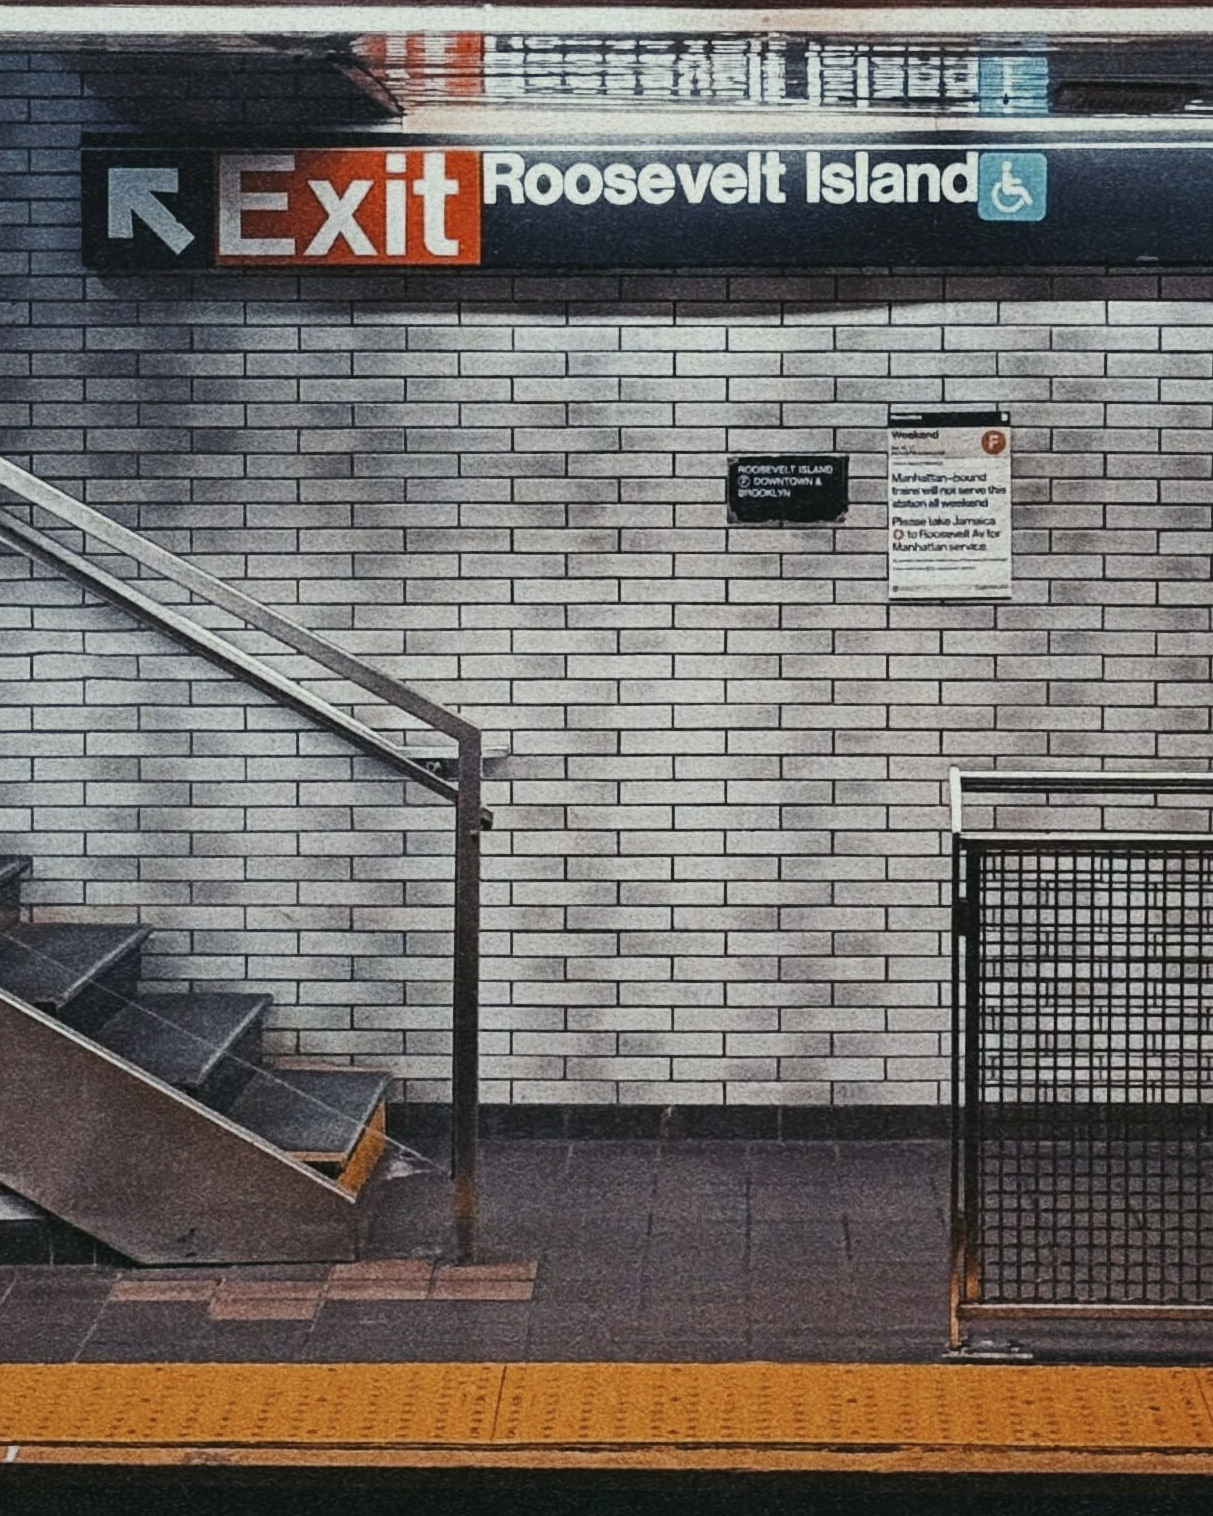
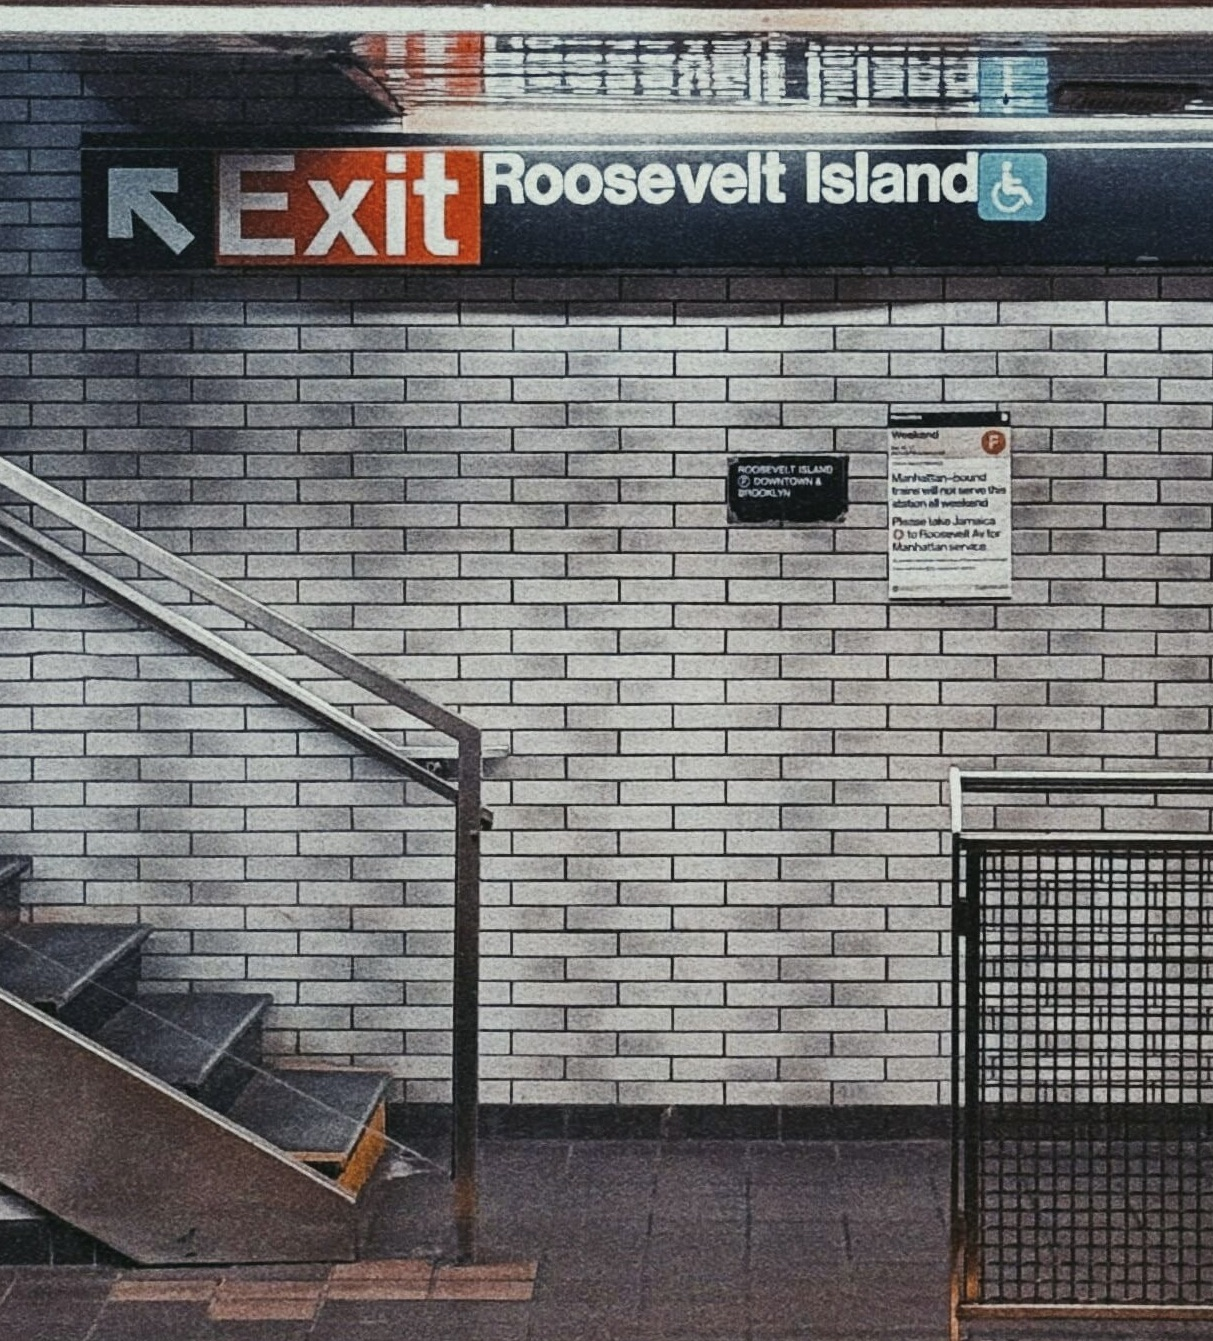
adjusted the phone homepage picture size

diff --git a/assets/css/style.css b/assets/css/style.css
@@ -392,7 +392,7 @@ html[lang="zh-hans"] .lang {
     background-image: url("/assets/image/hero-home-en-mobile.jpg");
     background-position: center center;
     height: auto;
-    aspect-ratio: 4/5;
+    aspect-ratio: 1213/1341;
   }
 
   .home-hero .hero-content{
